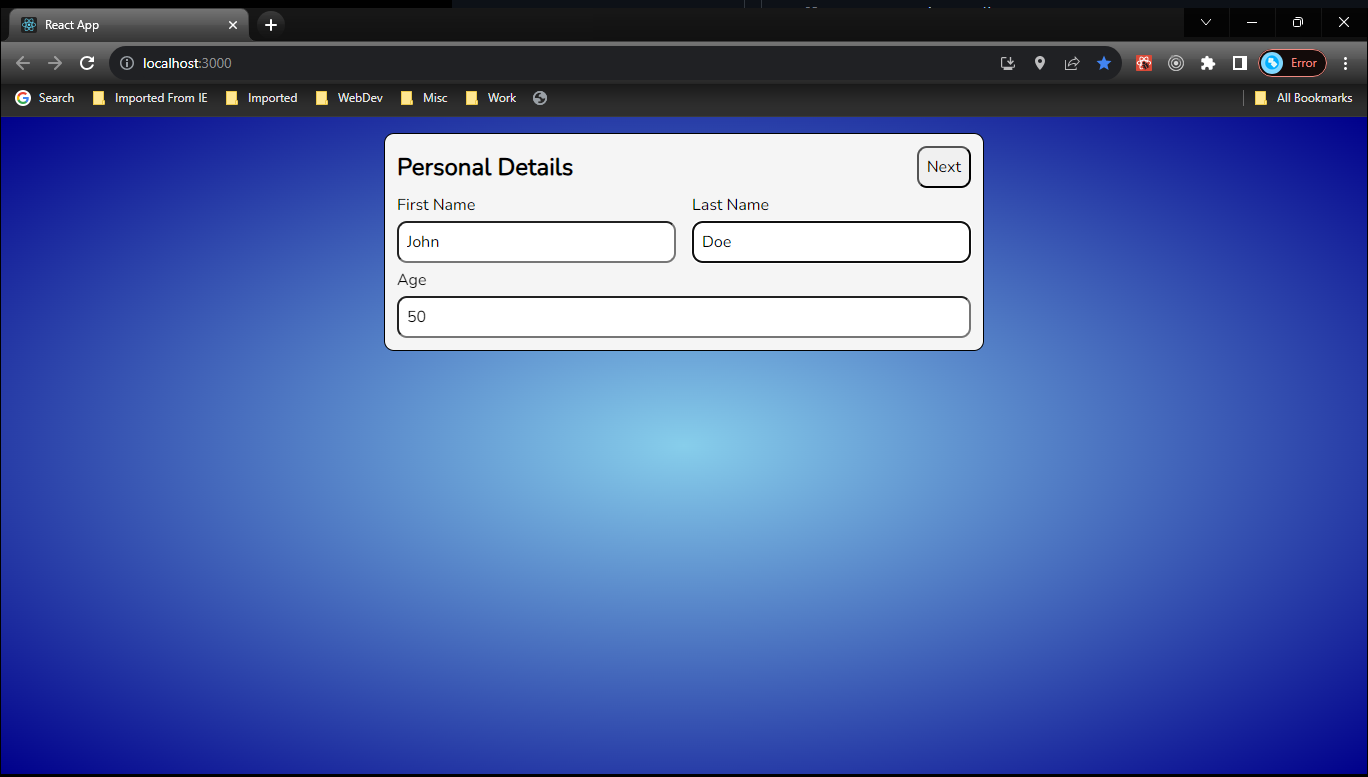
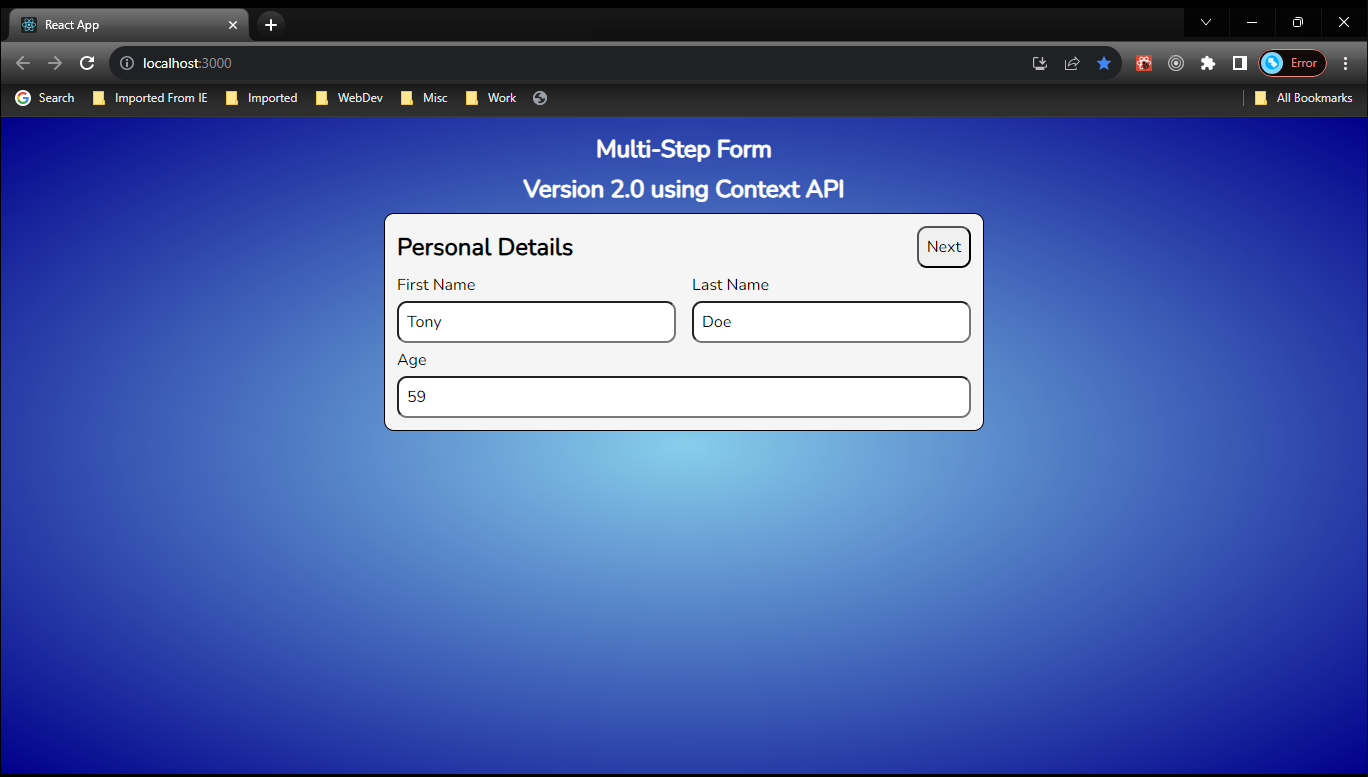
Correct last branch push error

Changed region(s): [[0.2763, 0.1544, 0.7368, 0.556], [0.7368, 0.0618, 0.7675, 0.0927]]

diff --git a/react-multi-step-form/src/context/FormContext.js b/react-multi-step-form/src/context/FormContext.js
@@ -13,7 +13,7 @@ export const FormProvider = ({ children }) => {
 
     const [page, setPage] = useState(0)
 
-    const [data, setData] = useState<Array.Map>({
+    const [data, setData] = useState({
         personalFirstName: "",
         personalLastName: "",
         personalAge: "",

diff --git a/react-multi-step-form/src/App.js b/react-multi-step-form/src/App.js
@@ -5,6 +5,8 @@ function App() {
 
   return (
     <FormProvider>
+      <h2 className='center'>Multi-Step Form</h2>
+      <h2 className='center'>Version 2.0 using Context API</h2>
       <Form />
     </FormProvider>
   )

diff --git a/react-multi-step-form/src/index.css b/react-multi-step-form/src/index.css
@@ -6,6 +6,12 @@
   box-sizing: border-box;
 }
 
+h2.center {
+  width: 100%;
+  text-align:center;
+  color: white;
+}
+
 /* || UTILITY CLASSES */
 
 .remove-button {
